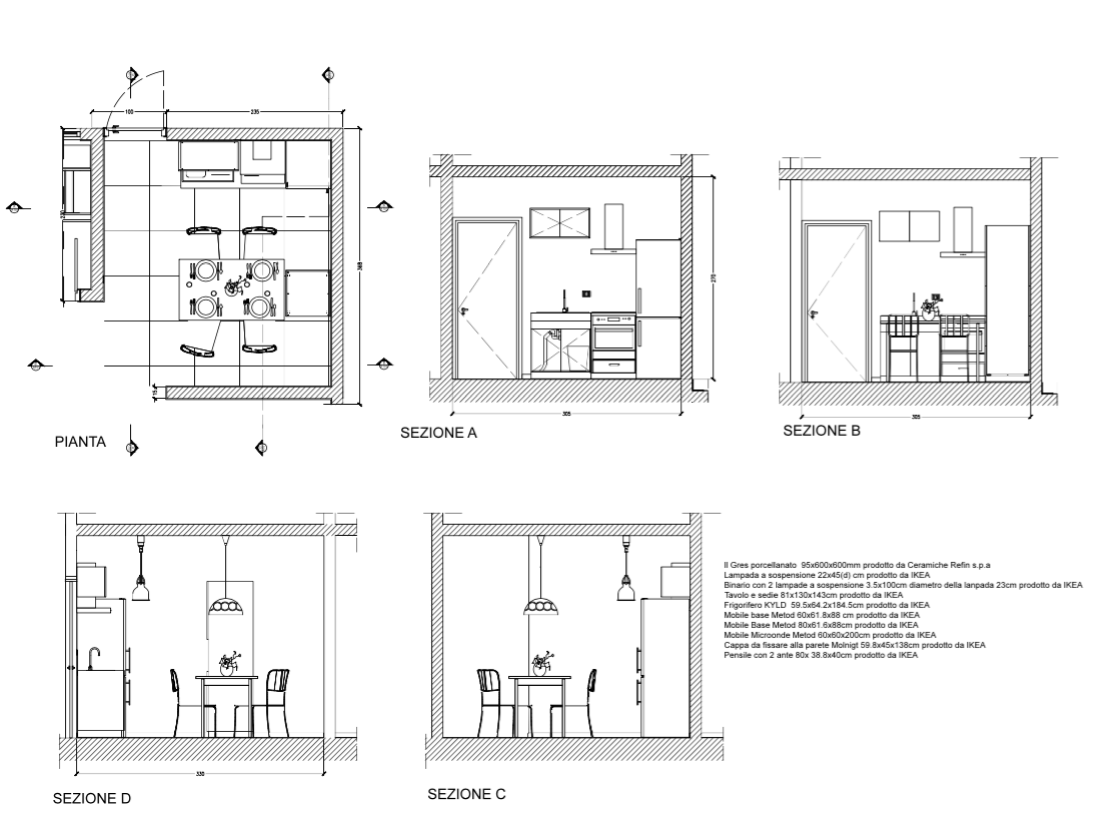
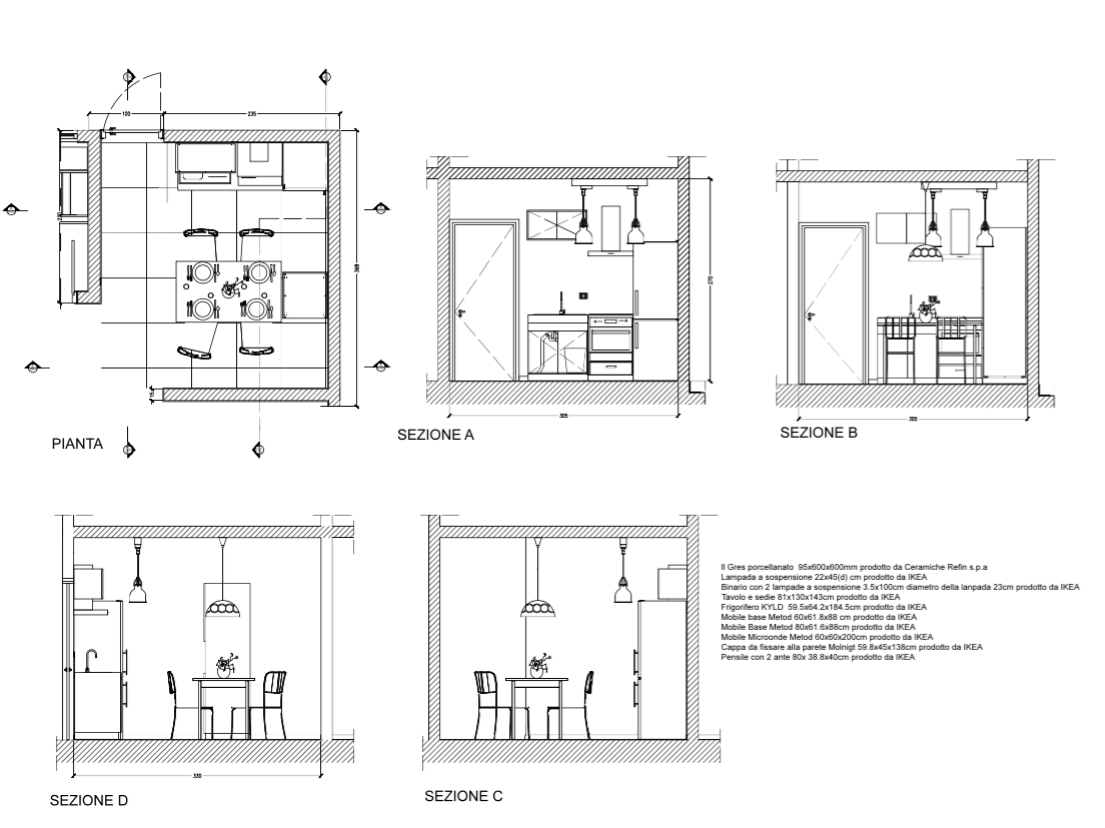
3

diff --git a/projects/MO-S_1/MO-S_1_CUCINA/MO-S_1-cucina.html b/projects/MO-S_1/MO-S_1_CUCINA/MO-S_1-cucina.html
@@ -41,6 +41,12 @@ Nel corso di questo semestre abbiamo studiato a
    avere una scelta ampia con un budget limitato
    e da poter essere in possesso di descrizioni
    accurate per il ridisegno.
+   Per quanto riguarda l'ambiente cucina abbiamo utilizzato
+   arredi IKEA ed alcuni elementi dell'azienda Ceramiche Refin.
+   Abbiamo usato i mobile basi e i pensili di Metod da IKEA, sono semplici e classichi.
+   Per l'illuminazione abbiamo scelto il IKEA 365+ BRASA e il SKENINGE, per aggiungere colore
+   allo spazio.Per la zona pranzo abbiamo pensato al tavolo e alle sedie di ANTANAS
+   da IKEA.
 </p1></div></center>
 
 <center>
